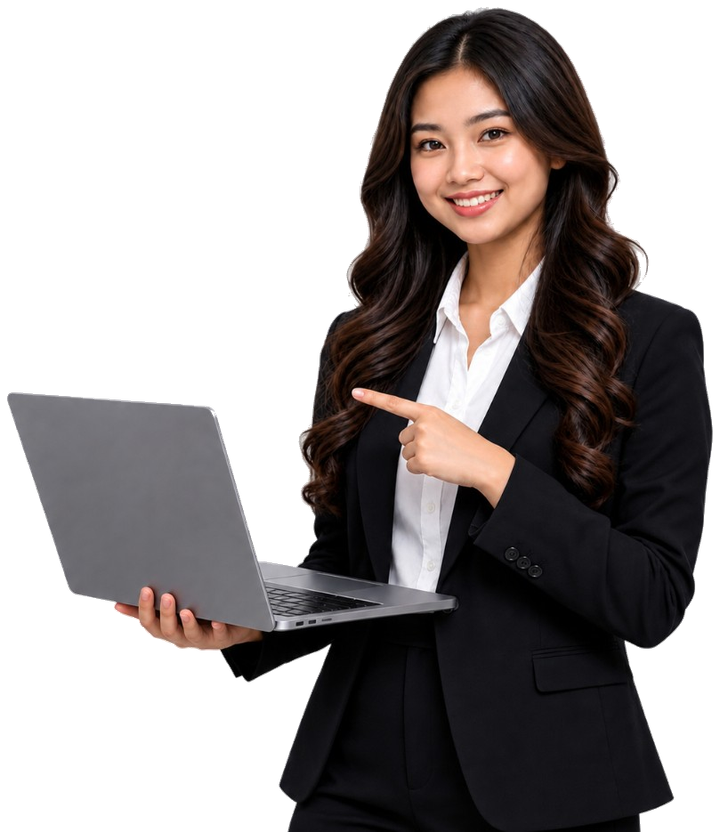
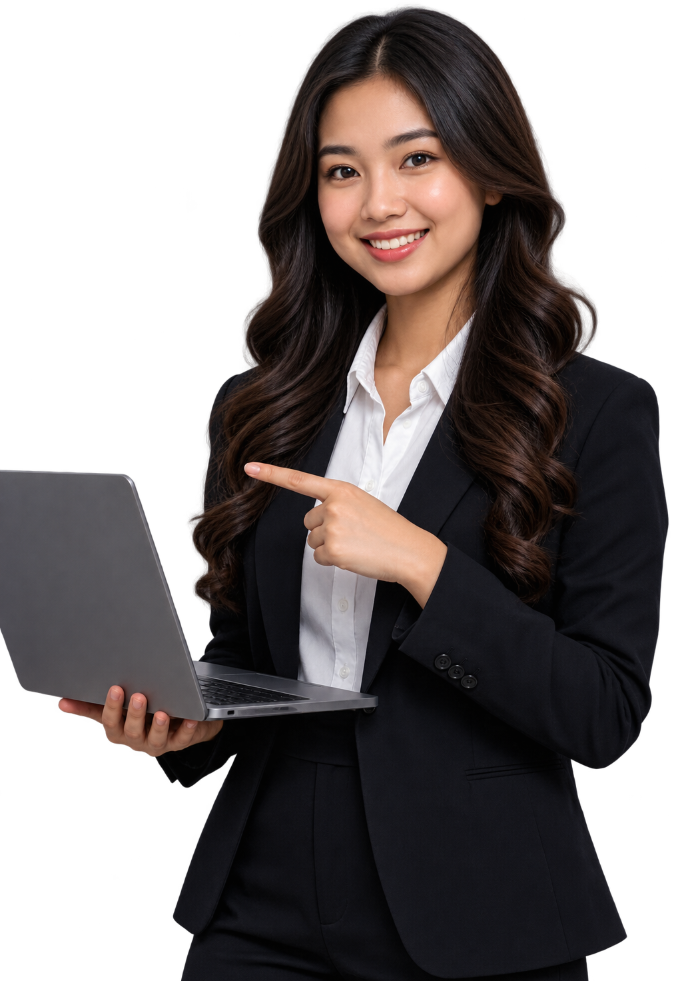
Revert landing lady cutout to the previous professional image.
Keep the boy student asset and updated passport card names unchanged.

diff --git a/apps/web/src/components/landing/home/HomeHero.tsx b/apps/web/src/components/landing/home/HomeHero.tsx
@@ -39,8 +39,8 @@ export function HomeHero() {
           <Image
             src="/landing/hero-professional.png"
             alt="Smiling professional pointing at a laptop"
-            width={720}
-            height={832}
+            width={673}
+            height={981}
             className="hl-hero__cutout"
             priority
           />

diff --git a/apps/web/src/components/landing/home/ChoosePath.tsx b/apps/web/src/components/landing/home/ChoosePath.tsx
@@ -39,8 +39,8 @@ export function ChoosePath() {
             <Image
               src="/landing/hero-professional.png"
               alt=""
-              width={720}
-              height={832}
+              width={673}
+              height={981}
               className="hl-path-card__image"
             />
           </article>
